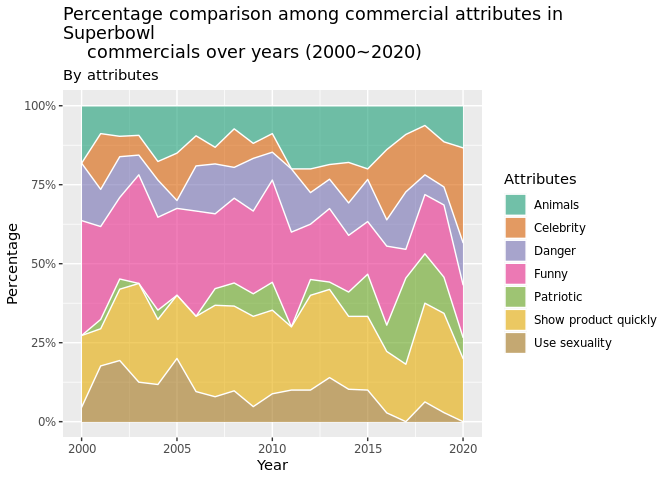
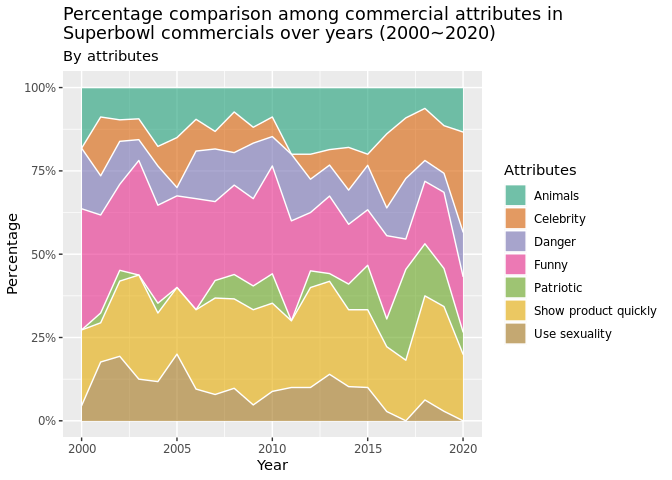
edit

diff --git a/README.md b/README.md
@@ -4,18 +4,28 @@ commercials
 
 ## Introduction
 
-Our `youtube` dataset contains a list of ads from the 10 brands that had
-the most advertisements in Super Bowls from 2000 to 2020, according to
-data from superbowl-ads.com, with matching videos found on YouTube.
-These brands included Toyota, Bud Light, Kia, Coca-Cola, Hynudai,
-Budweiser, Pepsi, NFL, Doritos, and E-trade. It was then analyzed by the
-staff of FiveThirtyEight, an American website that focuses on opinion
-poll analysis, politics, economics, and sports blogging, to come up with
-seven defining characteristics of a Super Bowl ad: `funny`, `danger`,
-`use_sex`, `show_product_quickly`, `celebrity`, `patriotic`, `animals`,
-which are represented as boolean variables. Furthermore, we are also
-given the `view_count`, `like_count`, `dislike_count`,`favorite_count`,
-`comment_count`, `description`, and `title` for each ad.
+The Super Bowl has top television ratings in the US, and its commercials
+are widely watched by US audiences. Thanks to the “like”, “dislike”, and
+“comment” features of Youtube, we are able to examine the interaction
+between the audience and the TV ads that were posted on Youtube. This
+motivated our team to explore the trends in how the content and audience
+preferences of Super Bowl ads change over the years, as well as how
+their content and description differ during the election and
+non-election years.
+
+Our `youtube` dataset was analyzed by FiveThirtyEight, a website that
+focuses on opinion poll analysis, politics, economics, and sports
+blogging. The dataset contains a list of ads with matching videos found
+on YouTube from the 10 brands that had the most advertisements in Super
+Bowls from 2000 to 2020, according to superbowl-ads.com. The 10 brands
+are Toyota, Bud Light, Hynudai, Coca-Cola, Kia, Budweiser, NFL, Pepsi,
+Doritos, and E-Trade. We mainly focus on 7 defining characteristics of
+each Super Bowl ad: `funny`, `danger`, `use_sex`,
+`show_product_quickly`, `celebrity`, `patriotic`, `animals`, which are
+represented as boolean variables. We will also use metrics like
+`view_count`, `like_count`, `dislike_count`, `favorite_count`,
+`comment_count`, `description`, and `title` of each ad to drive our
+analysis.
 
 ## Question 1：What is the trend of the ads’ content and audience preferences over the years?
 
@@ -23,37 +33,43 @@ given the `view_count`, `like_count`, `dislike_count`,`favorite_count`,
 
 Many things have changed in the first 20 years of the 21st century.
 There are life science breakthroughs, political conflicts, feminist
-movements, etc. Therefore, we want to see if people’s reaction to Super
+movements, etc. Therefore, we want to see if people’s reactions to Super
 Bowl commercials reflect the changes in their lifestyles and thoughts
 over the years. The changes in the ads themselves may also tell how
 companies are reacting to audience preferences.
 
 We want to explore the trends in how the ads change over the years in
-terms of content, audience preferences, and engagement. To analyze the
-change in content we use the logical variables
+terms of content and audience preferences. To analyze the change in the
+content we use the logical variables
 `funny`,`danger`,`use_sex`,`patriotic`, `show_product_quickly`,
 `celebrity`, and `animals`. To explore audience preference and
-engagement,`like_count`, `comment_count`, and `view_count` are used to
-calculate ratio of like/engagement over total views.
+engagement,`like_count` and `view_count` are used to calculate the ratio
+of like over total views.
 
 ### Approach
 
-For the first plot, we used a stacked area chart to see how the
-attribute makeup of ads has changed over time. This is achieved by first
-counting the total number of `TRUE`-valued Boolean variable in each year
-and then determining of the total `TRUE` values how many come from each
-attribute. These are then grouped by year and plotted as a stacked area
+For the first plot, we used a stacked area chart to see the percentage
+makeup of video attributes from 2000 to 2020. In order to compute the
+percentage, we first count the total number of `TRUE` values for each
+attribute in a year and then divide it over the total number of `TRUE`
+values in that year. The percentage adds up to one as we are not
+dividing over the total number of rows. The percentages we get using the
+above method are then grouped by year and plotted as a stacked area
 chart. We preferred this visualization over the stacked bar chart since
 the stacked area chart makes it easier to identify the change, if any,
 in the trend of content proportions over the years.
 
-For the second plot, we used a line graphs faceted by `attribute`, a
+For the second plot, we used line graphs faceted by `attribute`, a
 variable that is created using all logical variables in the data set.
 The faceted line graph is suitable for time-dependent changes by each
-categorical variable. Because the logical variables are either true or
-false, 2 different lines in each sub-plot clearly show how the trends
-(audience preference in this case) differ if an ad contains an attribute
-or not.
+`attribute`. We would like to see whether containing a certain
+`attribute` impacts audience preference for an ad in each year. In each
+year, all ads are divided into 2 groups: having a certain `attribute` or
+not. In each group, The sum of the ratio of “likes” over “views” is
+divided over the total number of ads in that group to achieve the
+average ratio of “likes” over “views”. Therefore, the 2 lines in each
+sub-plot clearly show how the trend of audience preference differs if an
+ad contains an attribute or not over the years.
 
 ### Analysis
 
@@ -123,8 +139,7 @@ ggplot(all_year_plot,
     x = "Year",
     y = "Percentage",
     fill = "Attributes",
-    title = "Percentage comparison among commercial attributes in\nSuperbowl 
-    commercials over years (2000~2020)",
+    title = "Percentage comparison among commercial attributes in\nSuperbowl commercials over years (2000~2020)",
     subtitle = "By attributes"
   ) +
   scale_fill_brewer(palette = "Dark2") 
